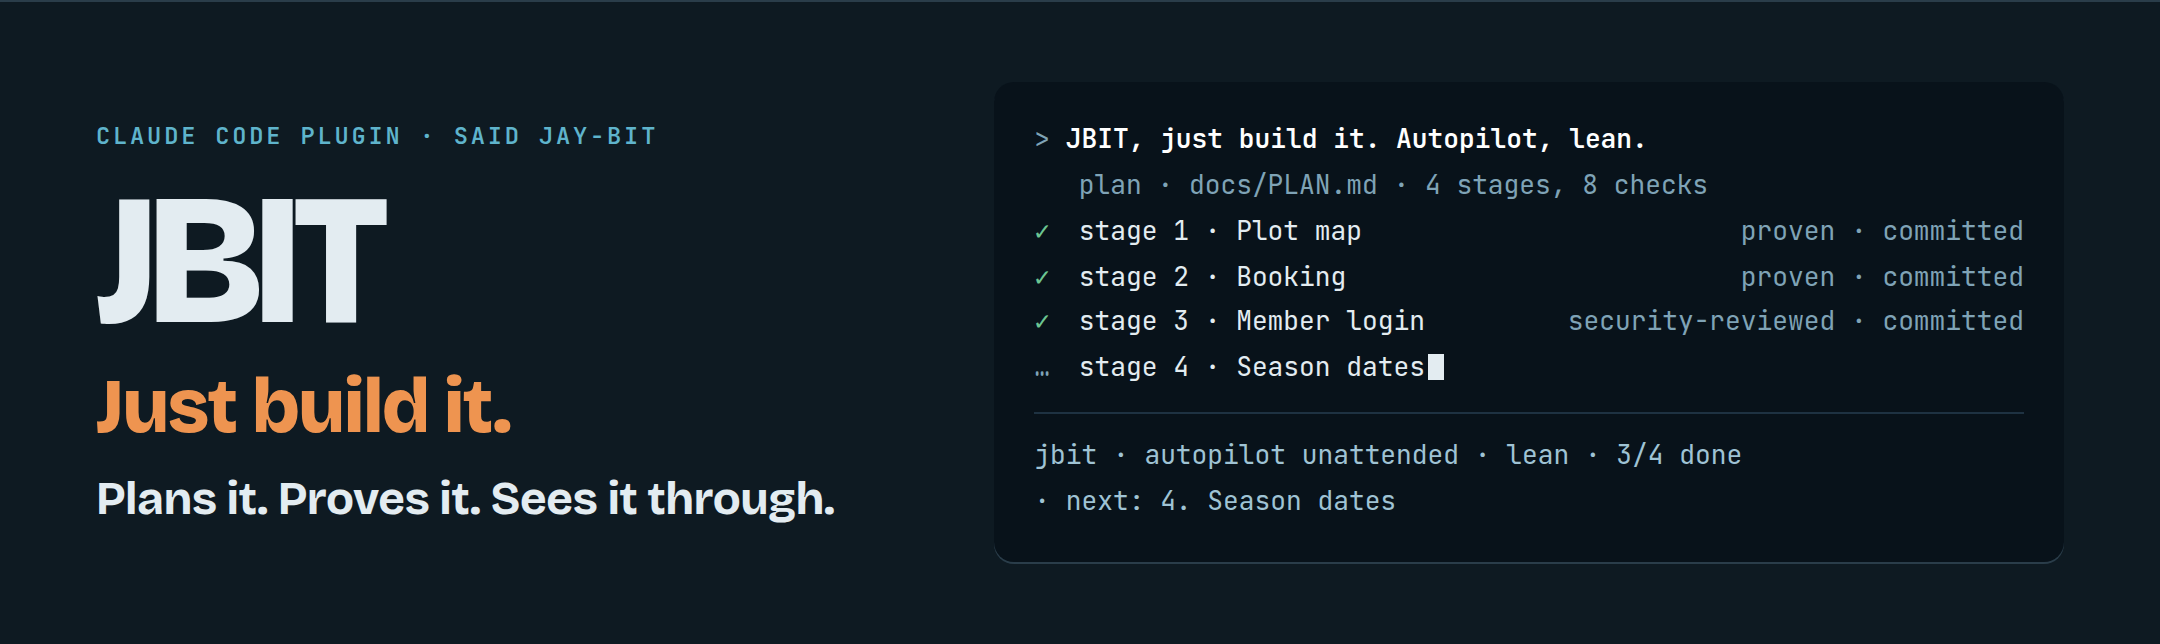
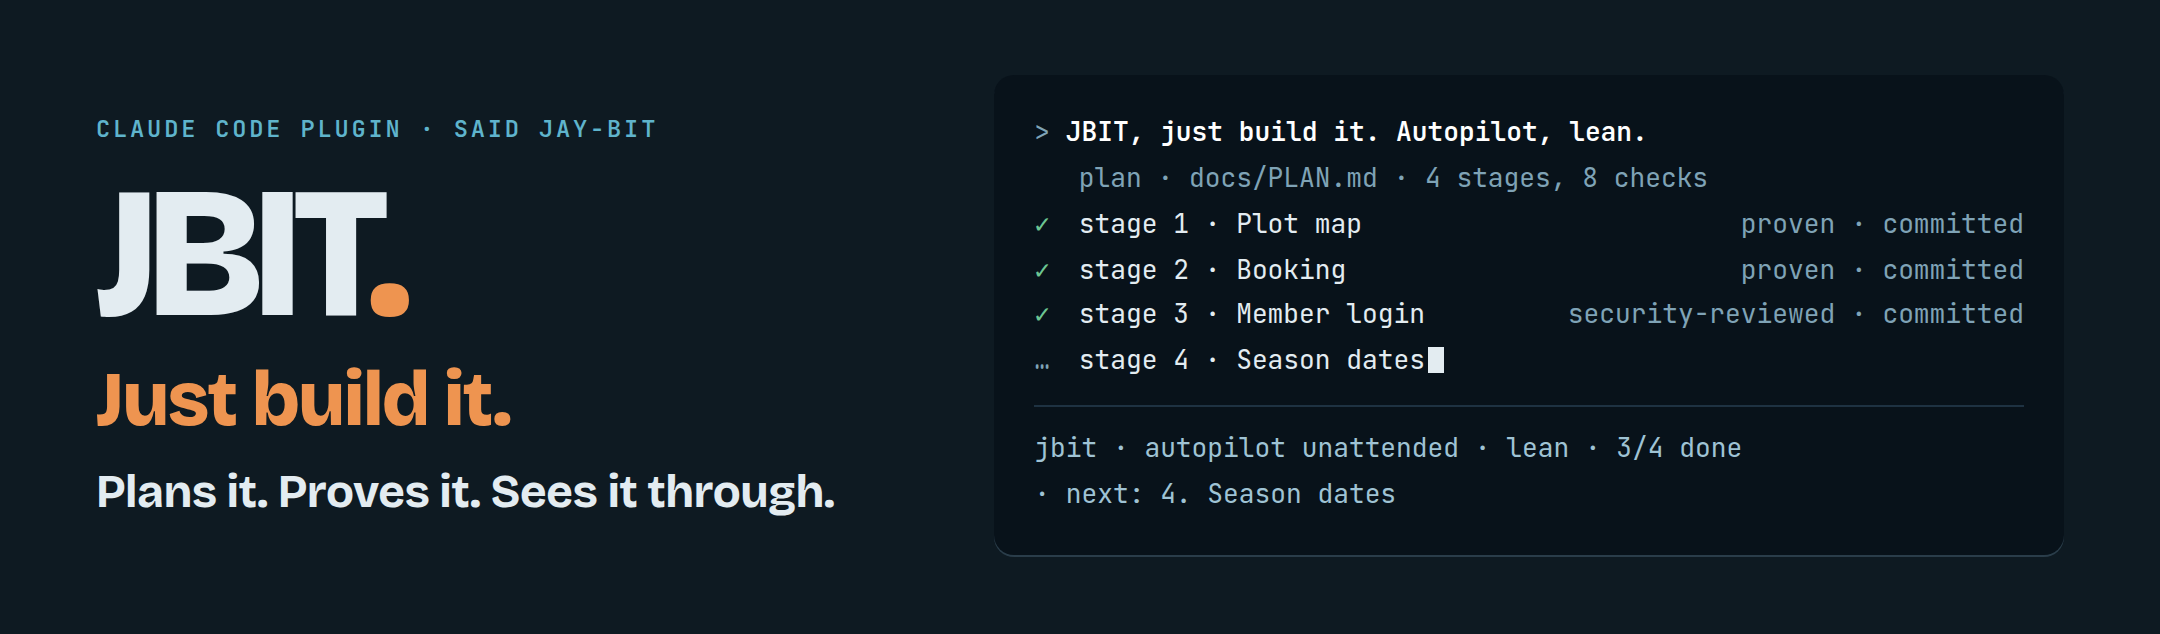
Fix: orange period after the JBIT wordmark
The hero wordmark reads "JBIT." with the period in the same orange as
"Just build it." (--signal, light and dark), in the field guide and the
re-rendered README banners (animated and still). The still banners' top
edge is trimmed so the rule above the hero no longer shows.

Claude-Session: https://claude.ai/code/session_01DwragVDzWvyVWcXG8hkEmY

diff --git a/docs/field-guide.html b/docs/field-guide.html
@@ -57,6 +57,7 @@ nav.top .brand{font-family:var(--f-display);font-weight:800;color:var(--ink);mar
 .hero > *{min-width:0}
 .hero .left{display:flex;flex-direction:column;gap:12px}
 .hero .mark{font-family:var(--f-display);font-weight:800;font-size:clamp(3.4rem,9vw,5.8rem);letter-spacing:-.04em;line-height:.88}
+.hero .mark .dot{color:var(--signal)}
 .hero .say{font-family:var(--f-display);font-weight:800;font-size:clamp(1.6rem,4vw,2.4rem);letter-spacing:-.02em;line-height:1.05;color:var(--signal)}
 .hero .promise{font-family:var(--f-display);font-weight:700;font-size:clamp(1.15rem,2.6vw,1.45rem);letter-spacing:-.01em;line-height:1.2}
 .hero .lede{font-size:1.02rem;margin-top:4px}
@@ -272,7 +273,7 @@ footer{padding-block:32px 48px;color:var(--muted);font-size:.84rem;border-top:1p
 <header class="hero">
   <div class="left">
     <span class="eyebrow">Claude Code plugin · said jay-bit</span>
-    <h1 class="mark">JBIT</h1>
+    <h1 class="mark">JBIT<span class="dot">.</span></h1>
     <p class="say">Just build it.</p>
     <p class="promise">Plans it. Proves it. Sees it through.</p>
     <p class="lede">Say the goal and approve the plan, then say the line. JBIT keeps the project in one plan file and git, builds it in stages, proves each one against the running product before it's committed, and logs the calls it makes for you. It stops before anything it can't take back.</p>

diff --git a/docs/PLAN.md b/docs/PLAN.md
@@ -18,6 +18,7 @@ Open: none
 ## Fixes
 - 2026-11-14 · README hero banner: both READMEs open with the field guide's option D hero (wordmark, "Just build it.", promise, terminal) as light and dark images, rendered by `docs/assets/render-hero.mjs`; docs check updated.
 - 2026-11-14 · Animated README hero: the banner plays the field guide's hero animation (the command typed, stages ticking off, the caret blinking) as light and dark animated WebP, rendered frame by frame on a fake clock by `docs/assets/render-hero-animated.mjs`; reduced motion gets the still PNGs. The field guide's in-progress stage no longer shows its "proven · committed" result before it ticks.
+- 2026-11-14 · The hero wordmark reads "JBIT." with the period in the brand line's orange (`--signal`), in the field guide and the README banners; the still banners' top edge trimmed.
 
 ## Decisions
 - 2026-11-14 · Autopilot is unattended by default — from the user ("Autopilot together with Unattended is kind of redundant… Autopilot should really default to Unattended"; "let's fold it in now"), after weighing that a risky stage then runs without their approval unless they say `attended`. Replaces the 2026-11-13 design where unattended was an opt-in word; what unattended keeps (verification, commit gates, secret guard, security review of risky stages, pausing when stuck or before a plan the user hasn't seen) is unchanged.
